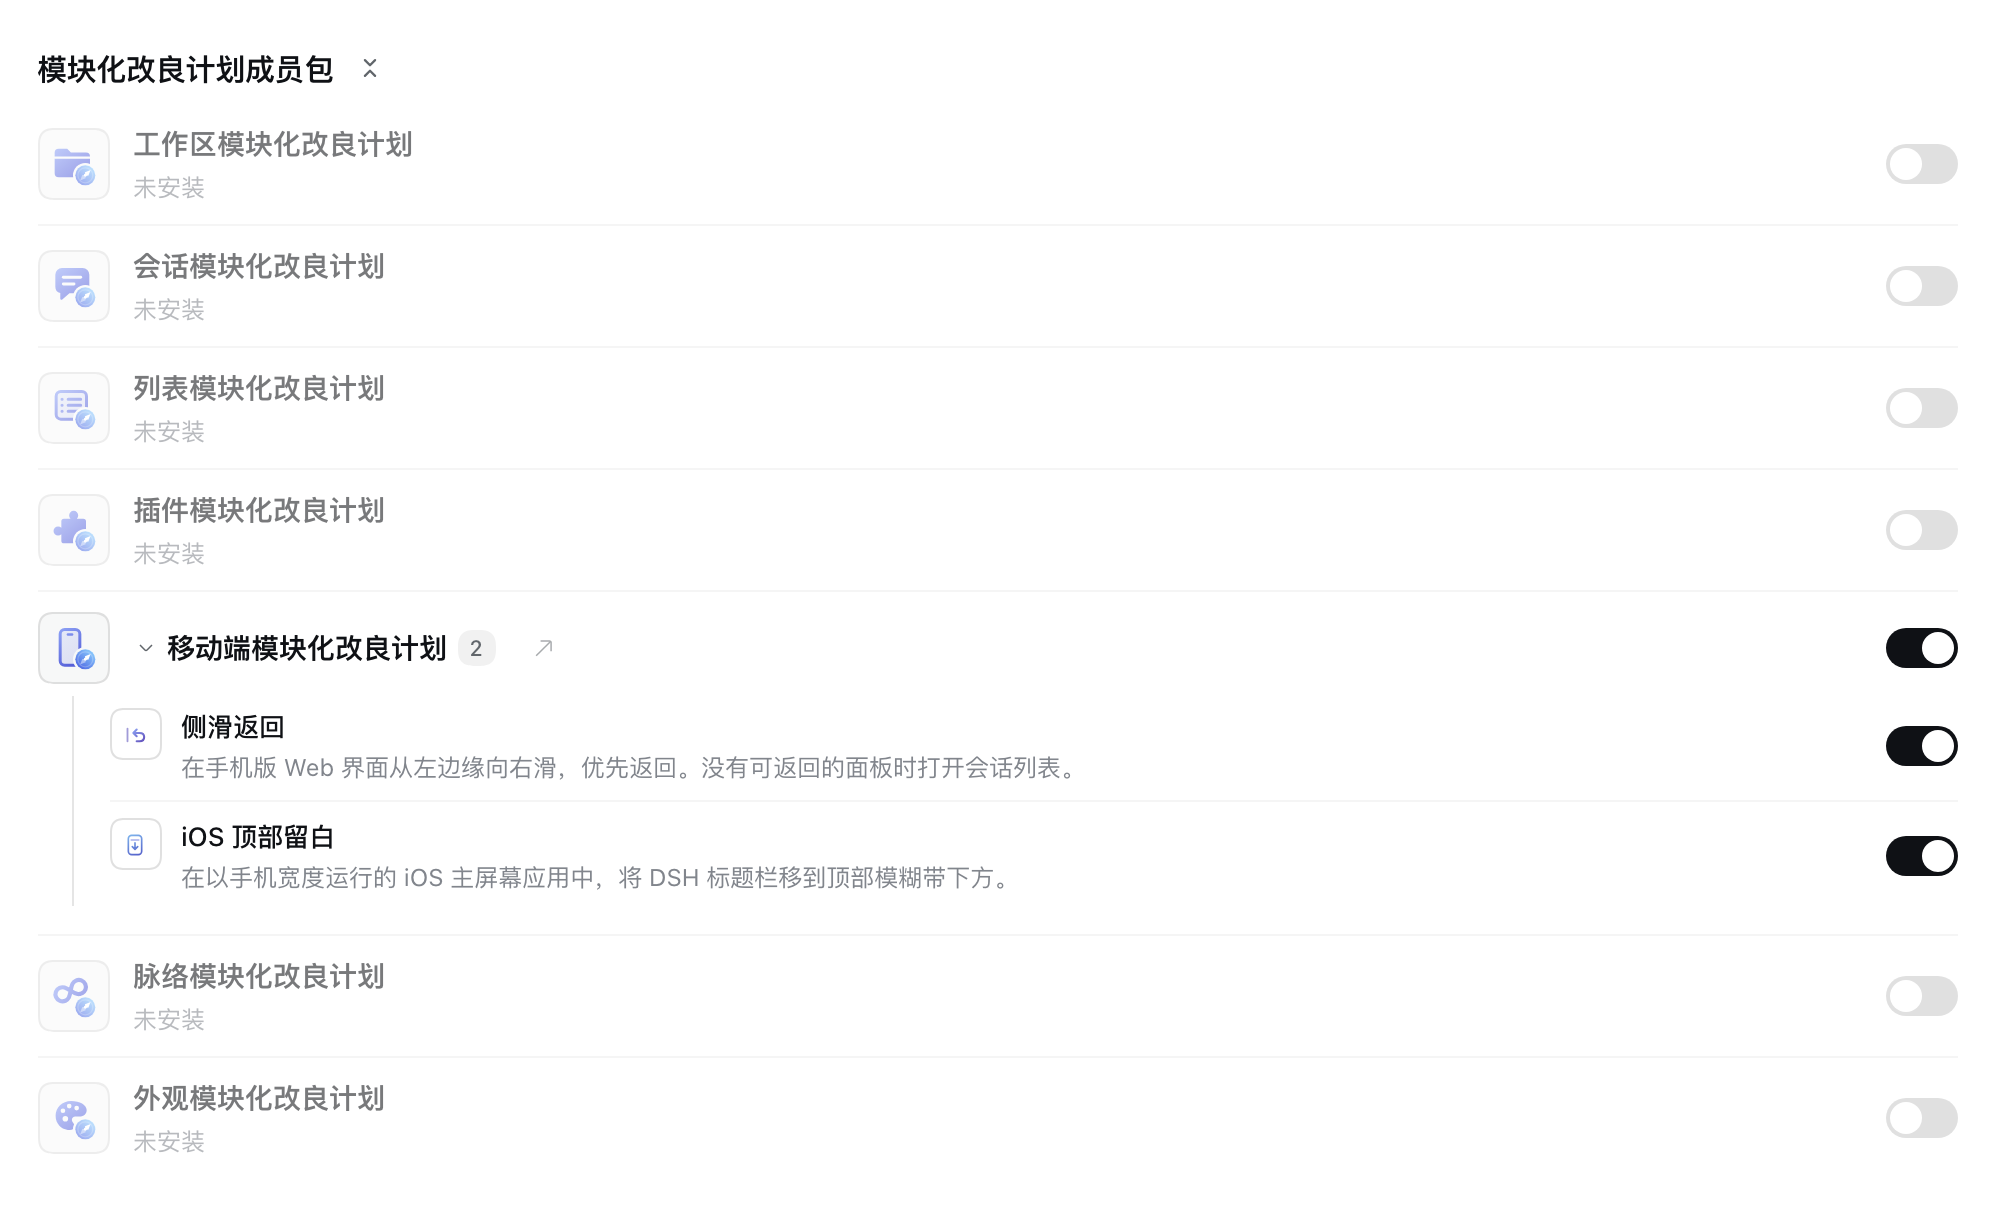
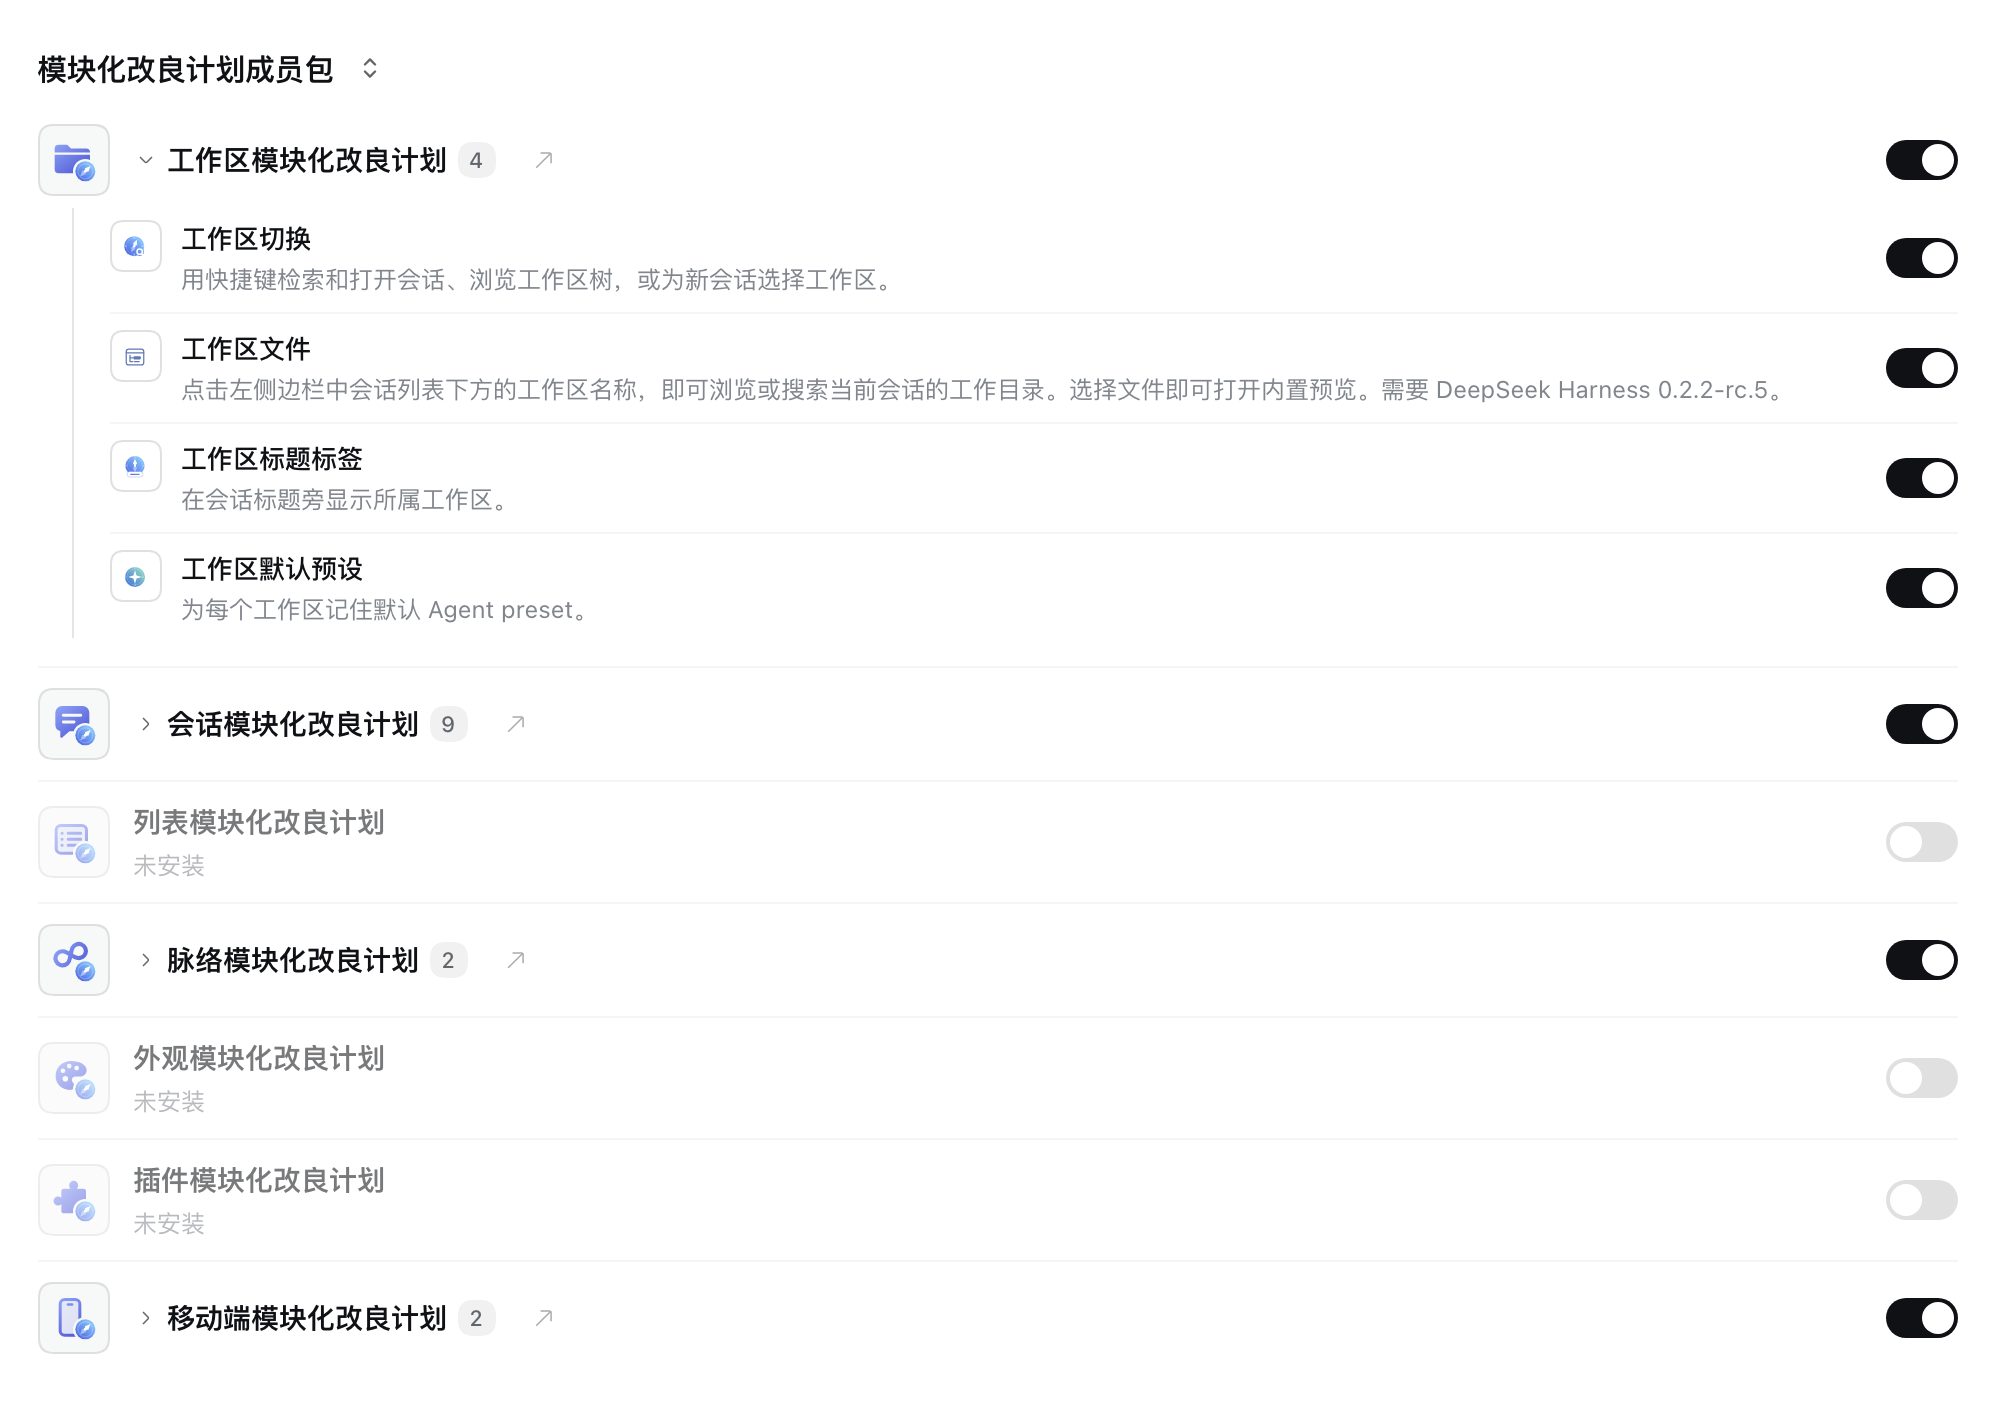
docs: refresh atlas manager screenshots in canonical order

diff --git a/README.md b/README.md
@@ -24,10 +24,11 @@ in a developer profile.
 
 ## Screenshots
 
-The **Atlas Modular Improvement Plan** shows the **Mobile Modular Improvement Plan** expanded, with two member switches.
+The **Atlas Modular Improvement Plan** lists all seven bundles in canonical order with four enabled
+and **Workspace Modular Improvement Plan** expanded to show its four member switches.
 The screenshots show the Chinese UI.
 
-![Mobile Modular Improvement Plan expanded to show two member switches](docs/assets/screenshots/main-light.png)
+![Atlas Modular Improvement Plan with Workspace Modular Improvement Plan expanded to show four member switches](docs/assets/screenshots/main-light.png)
 
 [Main view in dark mode](docs/assets/screenshots/main-dark.png)
 
